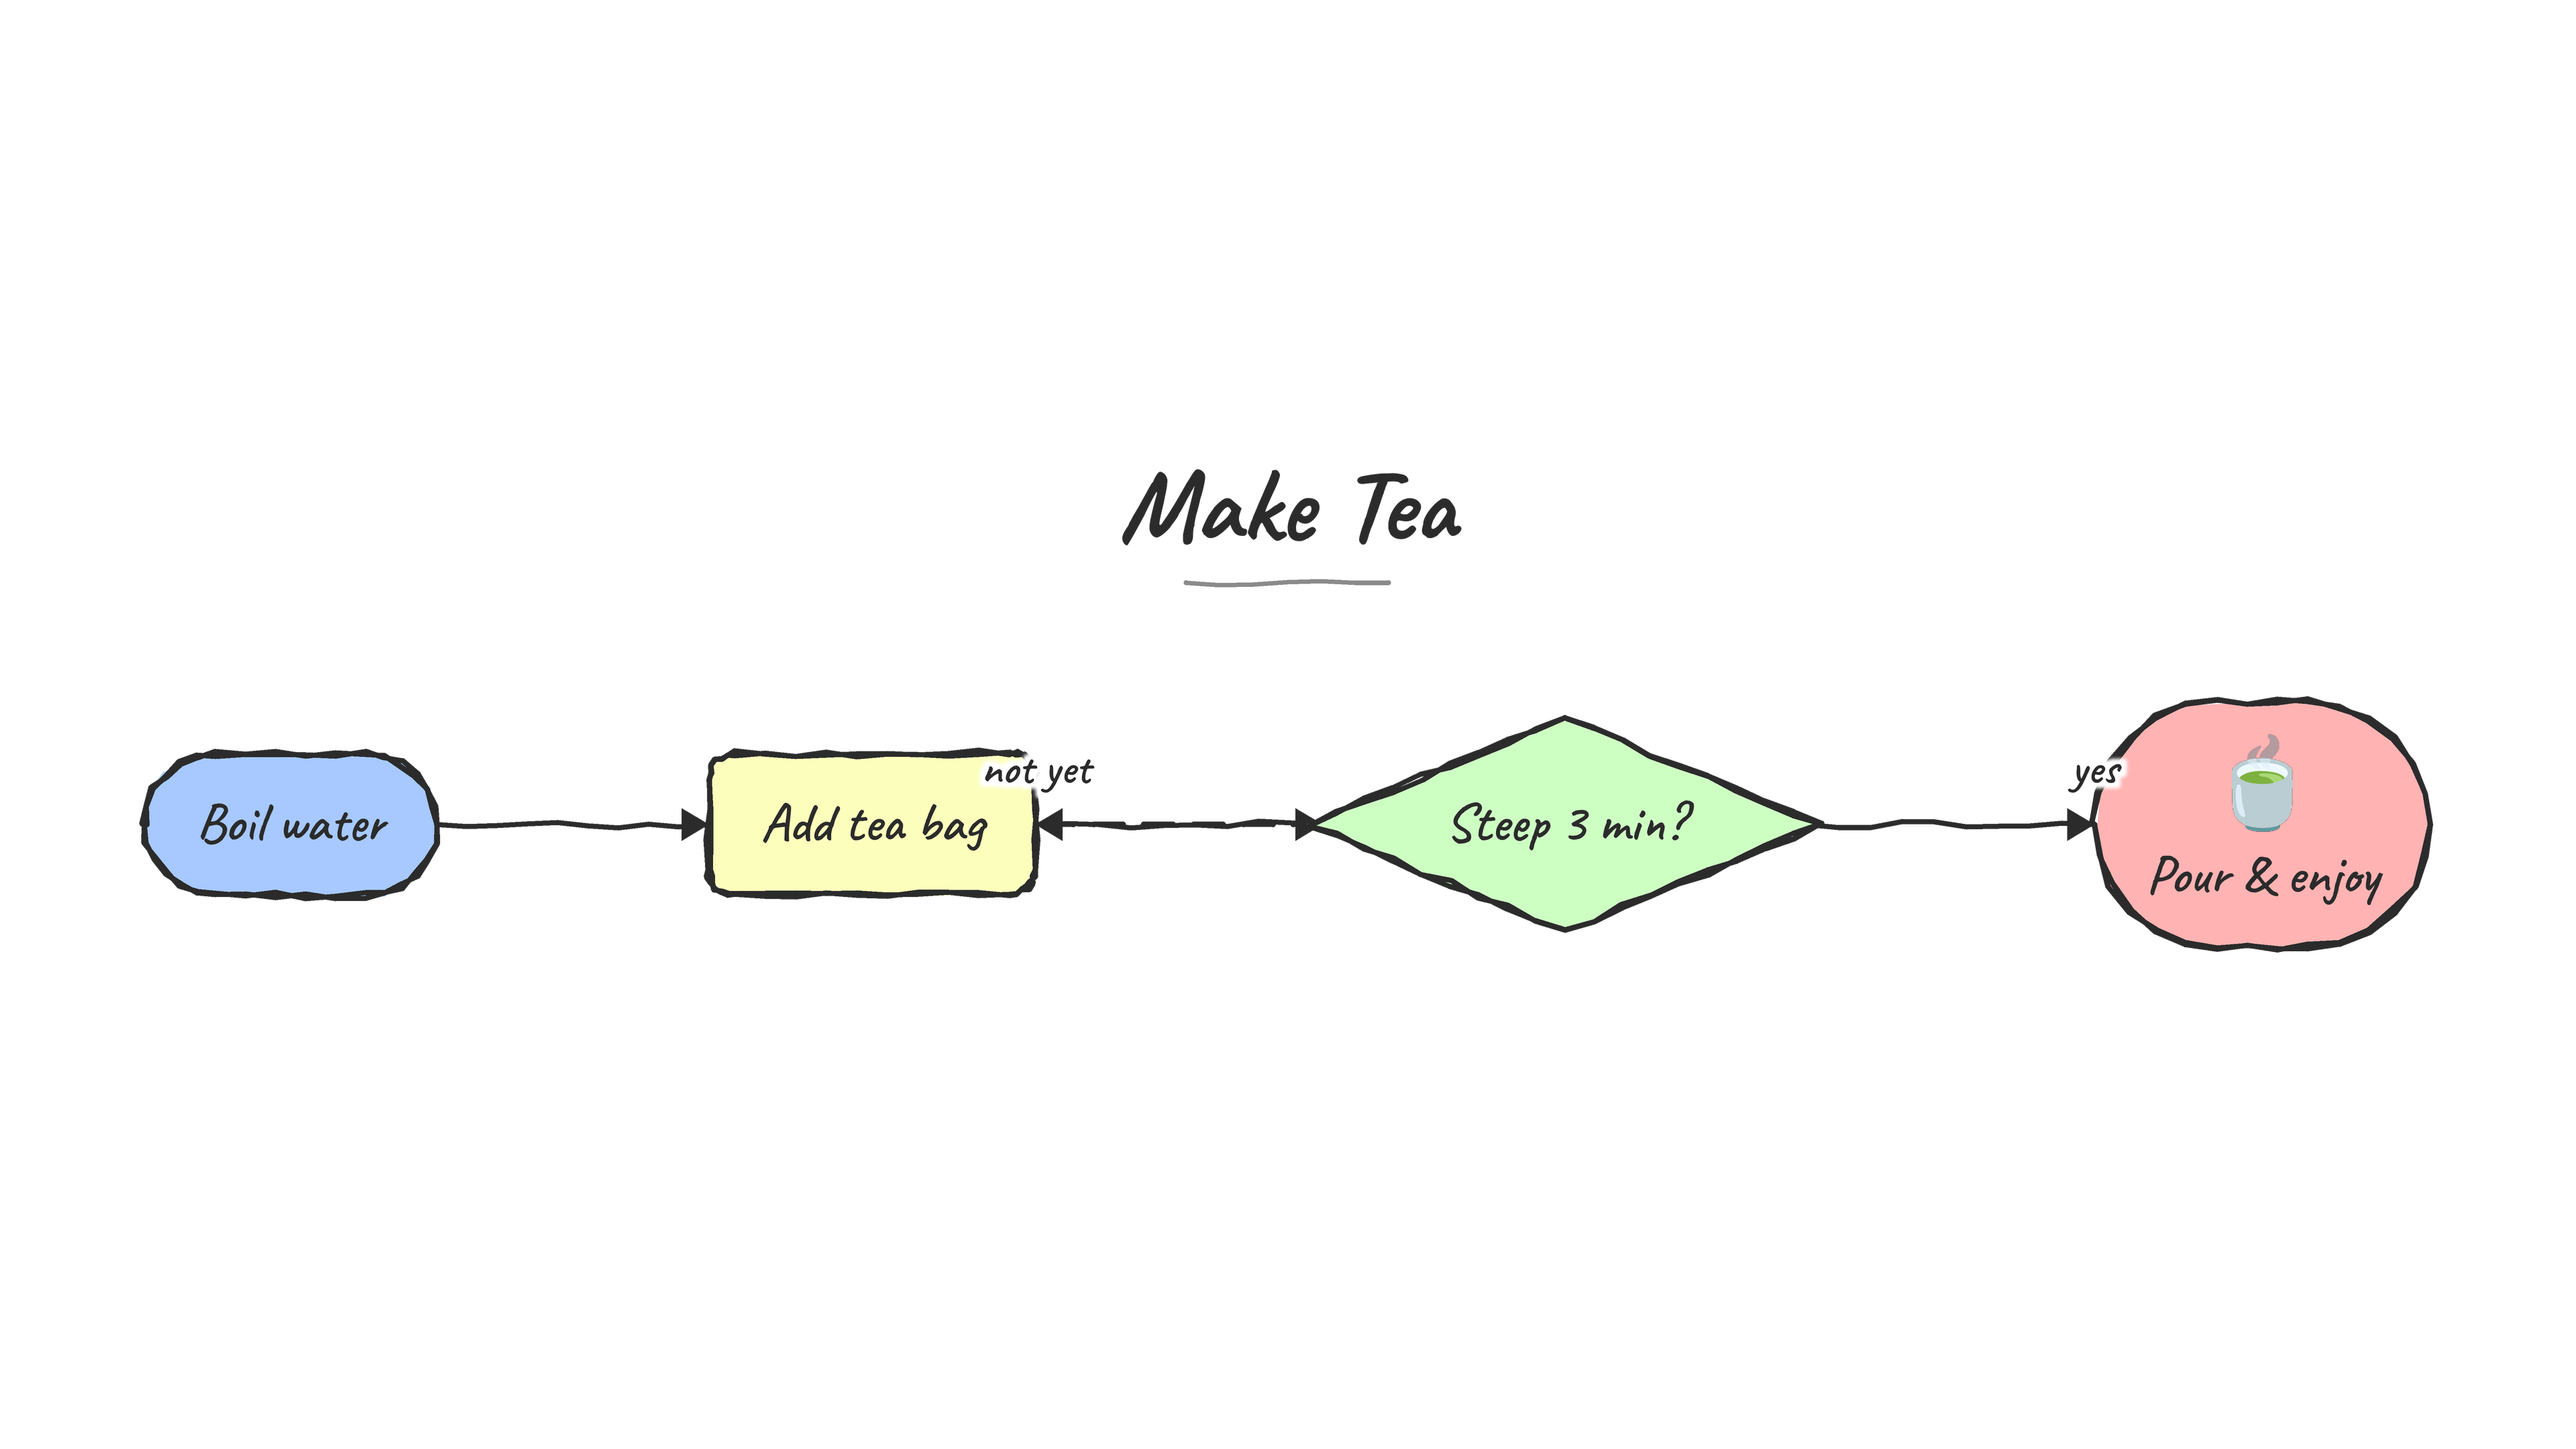
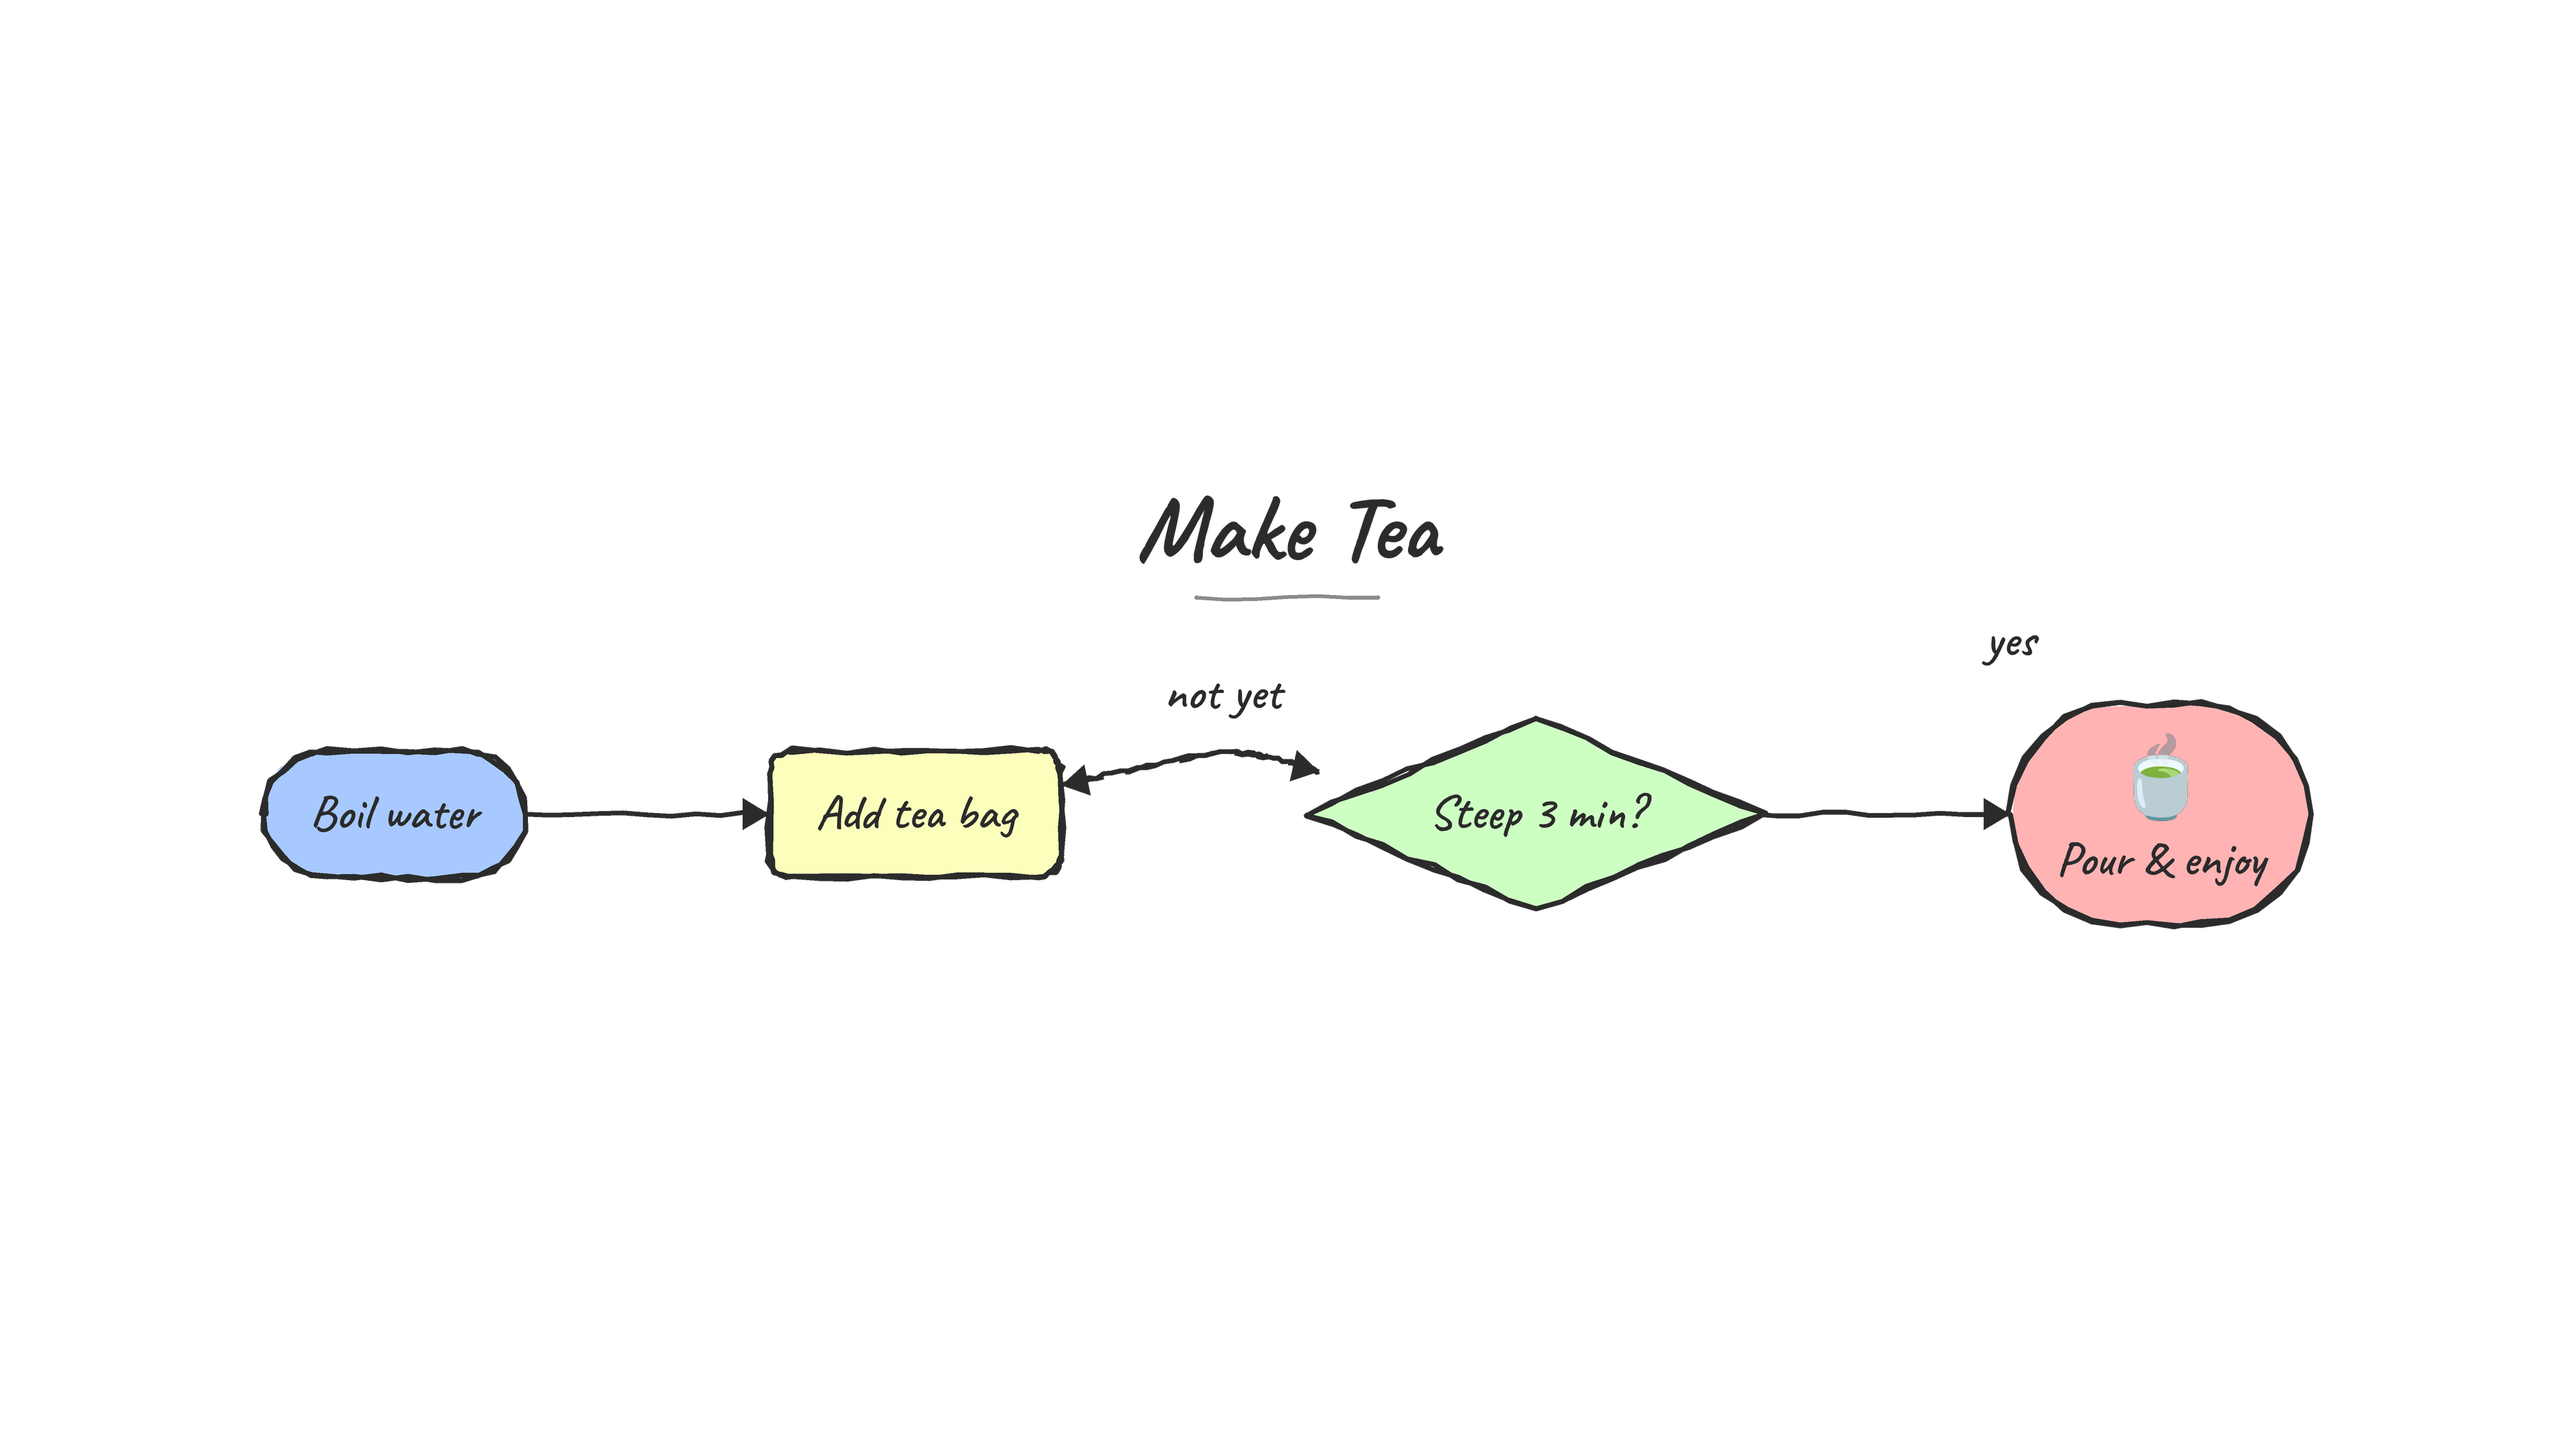
Bow parallel/back edges, clean dashed curves, bigger labels
- Parallel and reversed (back) edges between the same node pair now bow
  into separate arcs instead of overlapping on one line.
- Dashed/dotted edges render as clean, connected bezier curves: the path
  is jittered once and then dashed, so dashes follow the curve and join
  up (previously each dash was jittered independently and scattered).
- Edge labels enlarged to full font size, drawn with a halo, and nudged
  along their perpendicular until they clear every node and group label.
- Added a scene margin so bowed arcs and floated labels never clip.

Claude-Session: https://claude.ai/code/session_01PkQ793Mrcet6GuHUUkKXnM

Changed region(s): [[0.0312, 0.4653, 0.9688, 0.6824], [0.4375, 0.3102, 0.5625, 0.4343], [0.4688, 0.4653, 0.5, 0.5273]]

diff --git a/flowblow/raster.py b/flowblow/raster.py
@@ -173,7 +173,10 @@ class _Drawer:
         return (x * self.unit + self.ox, y * self.unit + self.oy)
 
     # --- rough path utilities (input already in output px) ---
-    def _roughen(self, pts: Sequence[Point], closed: bool, seed: int) -> List[Point]:
+    def _roughen(self, pts: Sequence[Point], closed: bool, seed: int,
+                 amp: Optional[float] = None, seg: Optional[float] = None) -> List[Point]:
+        amp = self.amp if amp is None else amp
+        seg = self.seg if seg is None else seg
         rng = random.Random(seed)
         out: List[Point] = []
         pairs = list(zip(pts, list(pts[1:]) + ([pts[0]] if closed else [])))
@@ -181,11 +184,11 @@ class _Drawer:
             dx, dy = b[0] - a[0], b[1] - a[1]
             d = math.hypot(dx, dy) or 1.0
             nx, ny = -dy / d, dx / d
-            k = max(1, int(d / self.seg))
+            k = max(1, int(d / seg))
             for i in range(k):
                 t = i / k
                 fix_end = (not closed) and idx == 0 and i == 0
-                off = 0.0 if fix_end else rng.uniform(-self.amp, self.amp)
+                off = 0.0 if fix_end else rng.uniform(-amp, amp)
                 out.append((a[0] + dx * t + nx * off, a[1] + dy * t + ny * off))
         if closed:
             out.append(out[0])
@@ -334,6 +337,7 @@ def _draw_scene(diagram: Diagram, layout, blocks, unit: float,
     node_meta = {n.id: n for n in diagram.nodes}
     group_meta = {g.id: g for g in diagram.groups}
     group_color = {g.id: g.color for g in diagram.groups}
+    obstacles: List[Tuple[float, float, float, float]] = []  # node + group-label rects
 
     # --- groups (behind) ---
     for g in layout.groups:
@@ -353,53 +357,86 @@ def _draw_scene(diagram: Diagram, layout, blocks, unit: float,
             lx = x0 + gb.w * unit / 2 + 12 * unit
             ly = y0 + gb.h * unit / 2 + 8 * unit
             dr.label_with_halo(gb, lx, ly, 700, diagram.accent)
+            obstacles.append((lx - gb.w * unit / 2, ly - gb.h * unit / 2,
+                              lx + gb.w * unit / 2, ly + gb.h * unit / 2))
 
     # --- edges --- (labels are deferred so nodes never hide them)
-    deferred_labels: List[Tuple[Block, Point]] = []
+    deferred_labels: List[Tuple[Block, Point, Point]] = []
     round_shapes = (Shape.ellipse, Shape.circle, Shape.diamond)
     valid = [e for e in diagram.edges
              if e.source in layout.nodes and e.target in layout.nodes]
-    for spec, e in zip(valid, layout.edges):
+
+    # Bow parallel / back edges apart so they each get their own arc instead of
+    # overlapping on the same line.
+    BOW = 30.0  # layout units
+    pair_idx: dict = {}
+    for k, e in enumerate(layout.edges):
+        pair_idx.setdefault(frozenset((e.source, e.target)), []).append(k)
+    bow_of: dict = {}
+    for key, idxs in pair_idx.items():
+        if len(idxs) > 1 and len(key) == 2:
+            n = len(idxs)
+            for j, k in enumerate(idxs):
+                bow_of[k] = (j - (n - 1) / 2.0) * 2.0 * BOW
+
+    def draw_arrow(tip: Point, frm: Point, color):
+        dx, dy = tip[0] - frm[0], tip[1] - frm[1]
+        L = math.hypot(dx, dy) or 1.0
+        ux, uy = dx / L, dy / L
+        px, py = -uy, ux
+        size = 13 * unit
+        base = (tip[0] - ux * size, tip[1] - uy * size)
+        half = size * 0.6
+        dr.d.polygon([tip, (base[0] + px * half, base[1] + py * half),
+                      (base[0] - px * half, base[1] - py * half)], fill=color)
+
+    for k, (spec, e) in enumerate(zip(valid, layout.edges)):
         src, tgt = layout.nodes[e.source], layout.nodes[e.target]
         s_meta, t_meta = node_meta.get(e.source), node_meta.get(e.target)
-        pts = list(e.points)
         inset_s = 0.94 if (s_meta and s_meta.shape in round_shapes) else 1.0
         inset_t = 0.94 if (t_meta and t_meta.shape in round_shapes) else 1.0
-        pts[0] = _border_point(src, pts[1], inset_s)
-        pts[-1] = _border_point(tgt, pts[-2], inset_t)
-        sampled = [dr.T(*p) for p in _catmull(pts)]
+        raw = list(e.points)
+        bow = bow_of.get(k, 0.0)
+
+        if bow and len(raw) == 2:
+            (sx, sy), (ex, ey) = raw
+            mx, my = (sx + ex) / 2, (sy + ey) / 2
+            ddx, ddy = ex - sx, ey - sy
+            L = math.hypot(ddx, ddy) or 1.0
+            ctrl = (mx - ddy / L * bow, my + ddx / L * bow)
+            p0 = _border_point(src, ctrl, inset_s)
+            p1 = _border_point(tgt, ctrl, inset_t)
+            control = [p0, ctrl, p1]
+        else:
+            control = raw
+            control[0] = _border_point(src, control[1], inset_s)
+            control[-1] = _border_point(tgt, control[-2], inset_t)
+
+        sampled = [dr.T(*p) for p in _catmull(control, samples=22)]
         color = hex_rgba(spec.color) if spec.color else dr.ink
+        seed = _hash(e.source + e.target) & 255
+        # jitter the whole curve ONCE, then dash that single wavy path so the
+        # dashes stay connected and follow the curve.
+        wavy = dr._roughen(sampled, closed=False, seed=seed,
+                           amp=1.05 * unit, seg=11 * unit)
+        wdt = max(1, int(round(dr.stroke)))
 
         if spec.style == EdgeStyle.dashed:
-            for piece in _dash(sampled, 13 * unit, 9 * unit):
-                if len(piece) > 1:
-                    dr.stroke_path(piece, color, passes=1, seed=_hash(e.source + e.target) & 255)
+            pieces = _dash(wavy, 17 * unit, 11 * unit)
         elif spec.style == EdgeStyle.dotted:
-            for piece in _dash(sampled, 2.5 * unit, 8 * unit):
-                if len(piece) > 1:
-                    dr.stroke_path(piece, color, passes=1, seed=_hash(e.source + e.target) & 255)
+            pieces = _dash(wavy, 3.5 * unit, 7 * unit)
         else:
-            dr.stroke_path(sampled, color, passes=1, seed=_hash(e.source + e.target) & 255)
+            pieces = [wavy]
+        for piece in pieces:
+            if len(piece) > 1:
+                dr.d.line(piece, fill=color, width=wdt, joint="curve")
 
-        # arrow heads
-        def arrow(tip: Point, frm: Point):
-            dx, dy = tip[0] - frm[0], tip[1] - frm[1]
-            L = math.hypot(dx, dy) or 1.0
-            ux, uy = dx / L, dy / L
-            px, py = -uy, ux
-            size = 12 * unit
-            base = (tip[0] - ux * size, tip[1] - uy * size)
-            half = size * 0.6
-            tri = [tip, (base[0] + px * half, base[1] + py * half),
-                   (base[0] - px * half, base[1] - py * half)]
-            dr.d.polygon(tri, fill=color)
         if spec.arrow:
-            arrow(sampled[-1], sampled[-2])
+            draw_arrow(sampled[-1], sampled[-2], color)
         if spec.bidirectional:
-            arrow(sampled[0], sampled[1])
+            draw_arrow(sampled[0], sampled[1], color)
 
-        # edge label (drawn later, on top of everything), floated just off the
-        # line so it never sits on top of a node's own text.
+        # edge label (deferred), floated just off the line, follows the bow.
         if spec.label:
             i = len(sampled) // 2
             mid = sampled[i]
@@ -410,12 +447,12 @@ def _draw_scene(diagram: Diagram, layout, blocks, unit: float,
             perp = (-dy / L, dx / L)
             if perp[1] > 0:                # push to the "upper" side
                 perp = (-perp[0], -perp[1])
-            lb = layout_block(spec.label, size=diagram.font_size * 0.84, weight=600,
-                              max_width=diagram.font_size * 12)
-            lb.size = diagram.font_size * 0.84
-            off = lb.h * unit * 0.62 + 7 * unit
+            lb = layout_block(spec.label, size=diagram.font_size, weight=600,
+                              max_width=diagram.font_size * 14)
+            lb.size = diagram.font_size
+            off = lb.h * unit * 0.62 + 8 * unit
             pos = (mid[0] + perp[0] * off, mid[1] + perp[1] * off)
-            deferred_labels.append((lb, pos))
+            deferred_labels.append((lb, pos, perp))
 
     # --- nodes ---
     for nid, pn in layout.nodes.items():
@@ -429,6 +466,7 @@ def _draw_scene(diagram: Diagram, layout, blocks, unit: float,
             fill = PALETTE[_hash(nid) % len(PALETTE)]
         cx, cy = dr.T(pn.x, pn.y)
         w, h = pn.w * unit, pn.h * unit
+        obstacles.append((cx - w / 2, cy - h / 2, cx + w / 2, cy + h / 2))
         seed = _hash(nid) & 255
         fill_rgba = hex_rgba(fill, 235)
 
@@ -443,8 +481,23 @@ def _draw_scene(diagram: Diagram, layout, blocks, unit: float,
         dr.text_block(blk, cx, cy, 600, diagram.accent)
 
     # --- edge labels on top (soft halo, no boxy pill) ---
-    for lb, mid in deferred_labels:
-        dr.label_with_halo(lb, mid[0], mid[1], 600, diagram.accent)
+    def _overlaps(cx, cy, hw, hh):
+        for (x0, y0, x1, y1) in obstacles:
+            if cx + hw > x0 and cx - hw < x1 and cy + hh > y0 and cy - hh < y1:
+                return True
+        return False
+
+    for lb, pos, perp in deferred_labels:
+        hw, hh = lb.w * unit / 2, lb.h * unit / 2
+        cx, cy = pos
+        # nudge the label along its perpendicular until it clears every node
+        step = lb.h * unit * 0.55
+        for _ in range(6):
+            if not _overlaps(cx, cy, hw + 2 * unit, hh + 1 * unit):
+                break
+            cx += perp[0] * step
+            cy += perp[1] * step
+        dr.label_with_halo(lb, cx, cy, 600, diagram.accent)
 
 
 def _draw_cylinder(dr: _Drawer, cx, cy, w, h, fill, seed):
@@ -525,25 +578,30 @@ def render_png_bytes(diagram: Diagram, width: int = 1920, height: int = 1080,
     diagram.direction = chosen
     diagram_ox = (scene_w - layout.width) / 2
 
+    # extra margin so bowed arcs / floated labels never clip at the edge
+    B = fs * 2.6
+    total_w, total_h = scene_w + 2 * B, scene_h + 2 * B
+    fit = min((fw - 2 * pad) / total_w, (fh - 2 * pad) / total_h)
+
     ss = max(1, supersample)
     unit = fit * ss
-    scene_px_w = int(math.ceil(scene_w * unit)) + 2
-    scene_px_h = int(math.ceil(scene_h * unit)) + 2
+    scene_px_w = int(math.ceil(total_w * unit)) + 2
+    scene_px_h = int(math.ceil(total_h * unit)) + 2
 
     scene = Image.new("RGBA", (scene_px_w, scene_px_h), (0, 0, 0, 0))
     _draw_scene(diagram, layout, blocks, unit,
-                ox=diagram_ox * unit, oy=top * unit, img=scene)
+                ox=(B + diagram_ox) * unit, oy=(B + top) * unit, img=scene)
 
     # title
     if title_block is not None:
         tdr = _Drawer(scene, unit, 0, 0, diagram.accent)
-        tdr.text_block(title_block, scene_w * unit / 2,
-                       (title_block.h / 2 + fs * 0.2) * unit, 700, diagram.accent)
+        tcx = (B + scene_w / 2) * unit
+        tdr.text_block(title_block, tcx, (B + title_block.h / 2 + fs * 0.2) * unit,
+                       700, diagram.accent)
         # little underline flourish
         uw = title_block.w * unit * 0.6
-        ucx = scene_w * unit / 2
-        uy = (title_block.h + fs * 0.25) * unit
-        tdr.stroke_path([(ucx - uw / 2, uy), (ucx + uw / 2, uy)],
+        uy = (B + title_block.h + fs * 0.25) * unit
+        tdr.stroke_path([(tcx - uw / 2, uy), (tcx + uw / 2, uy)],
                         hex_rgba(diagram.accent, 140), width=max(1, 2 * unit), passes=1)
 
     # downsample supersample
